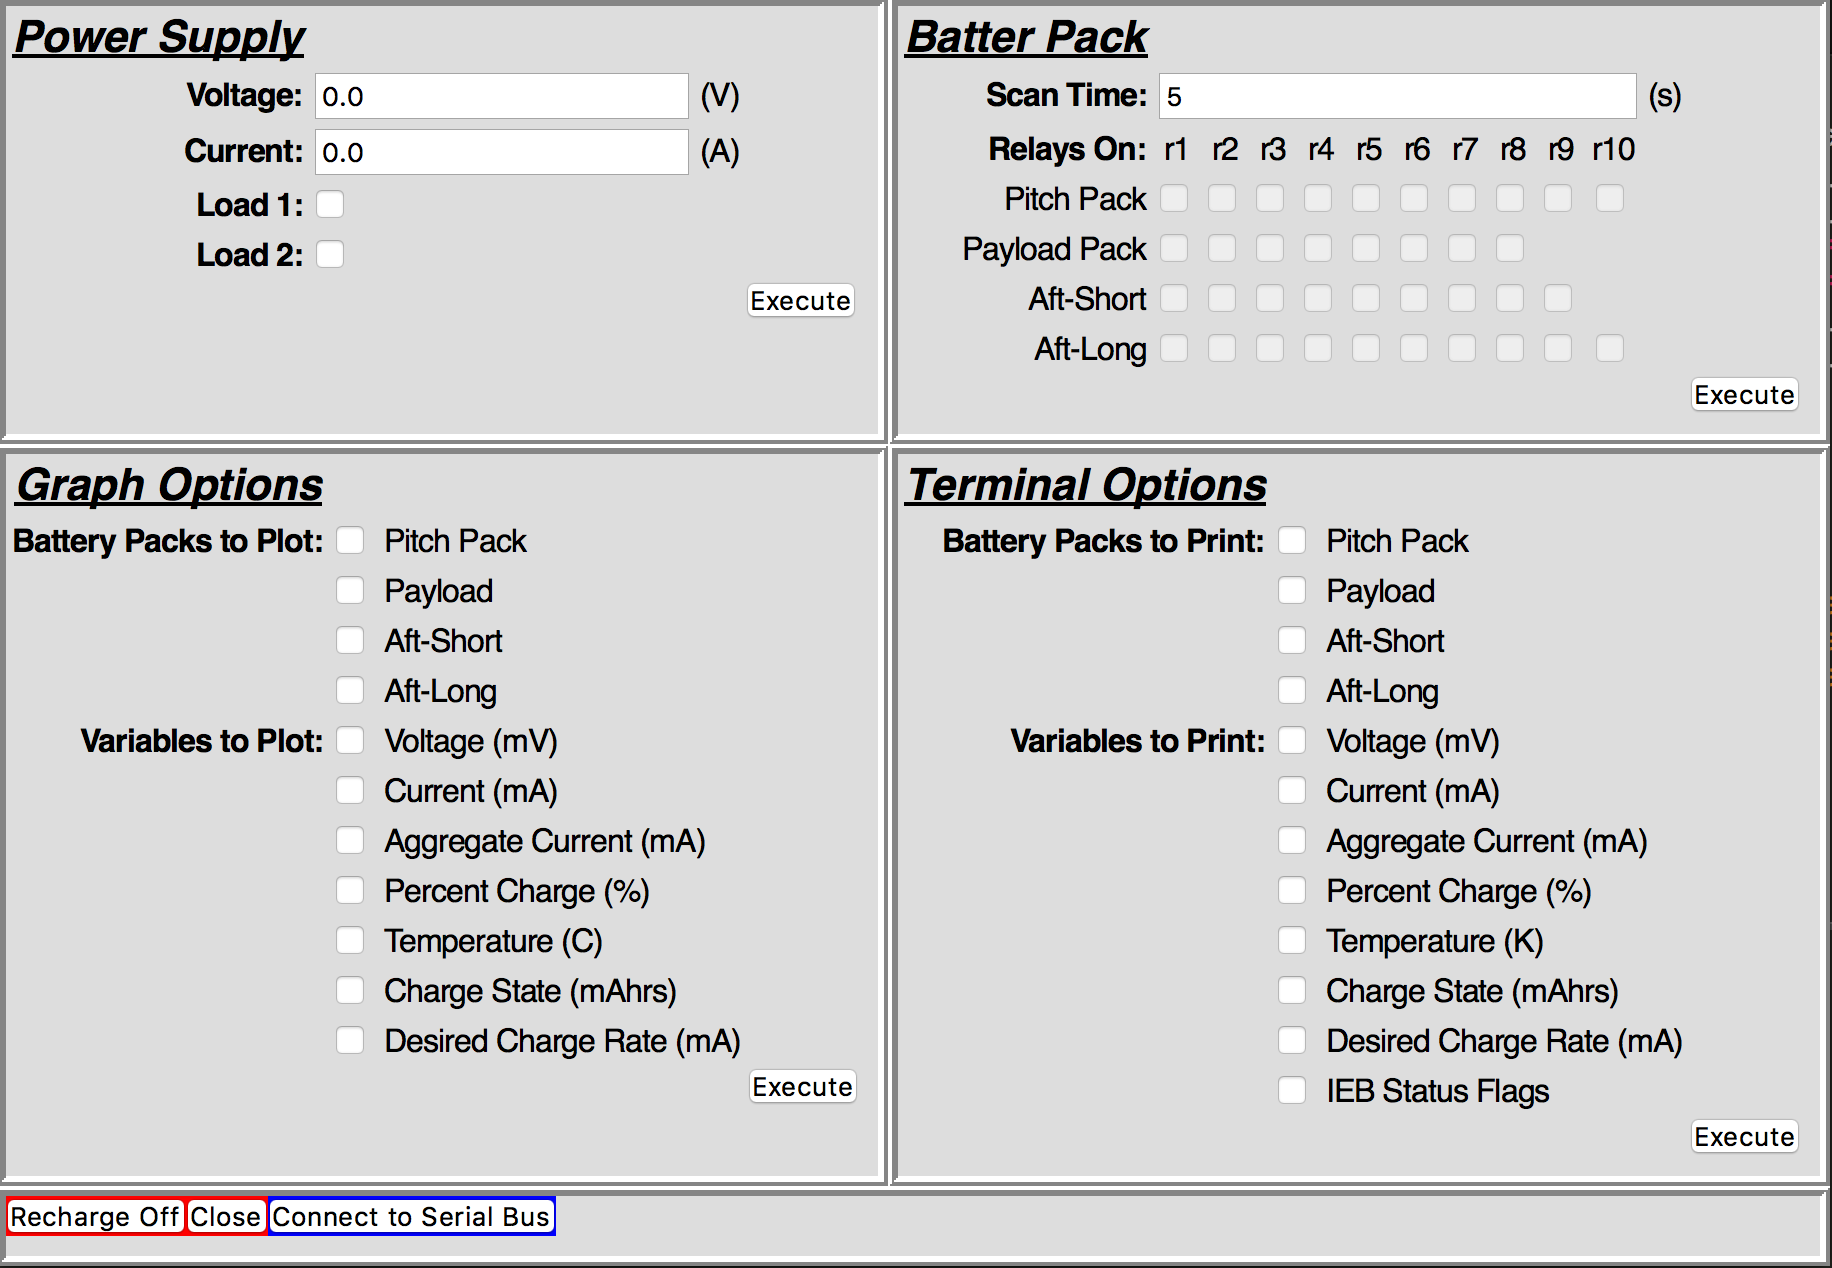
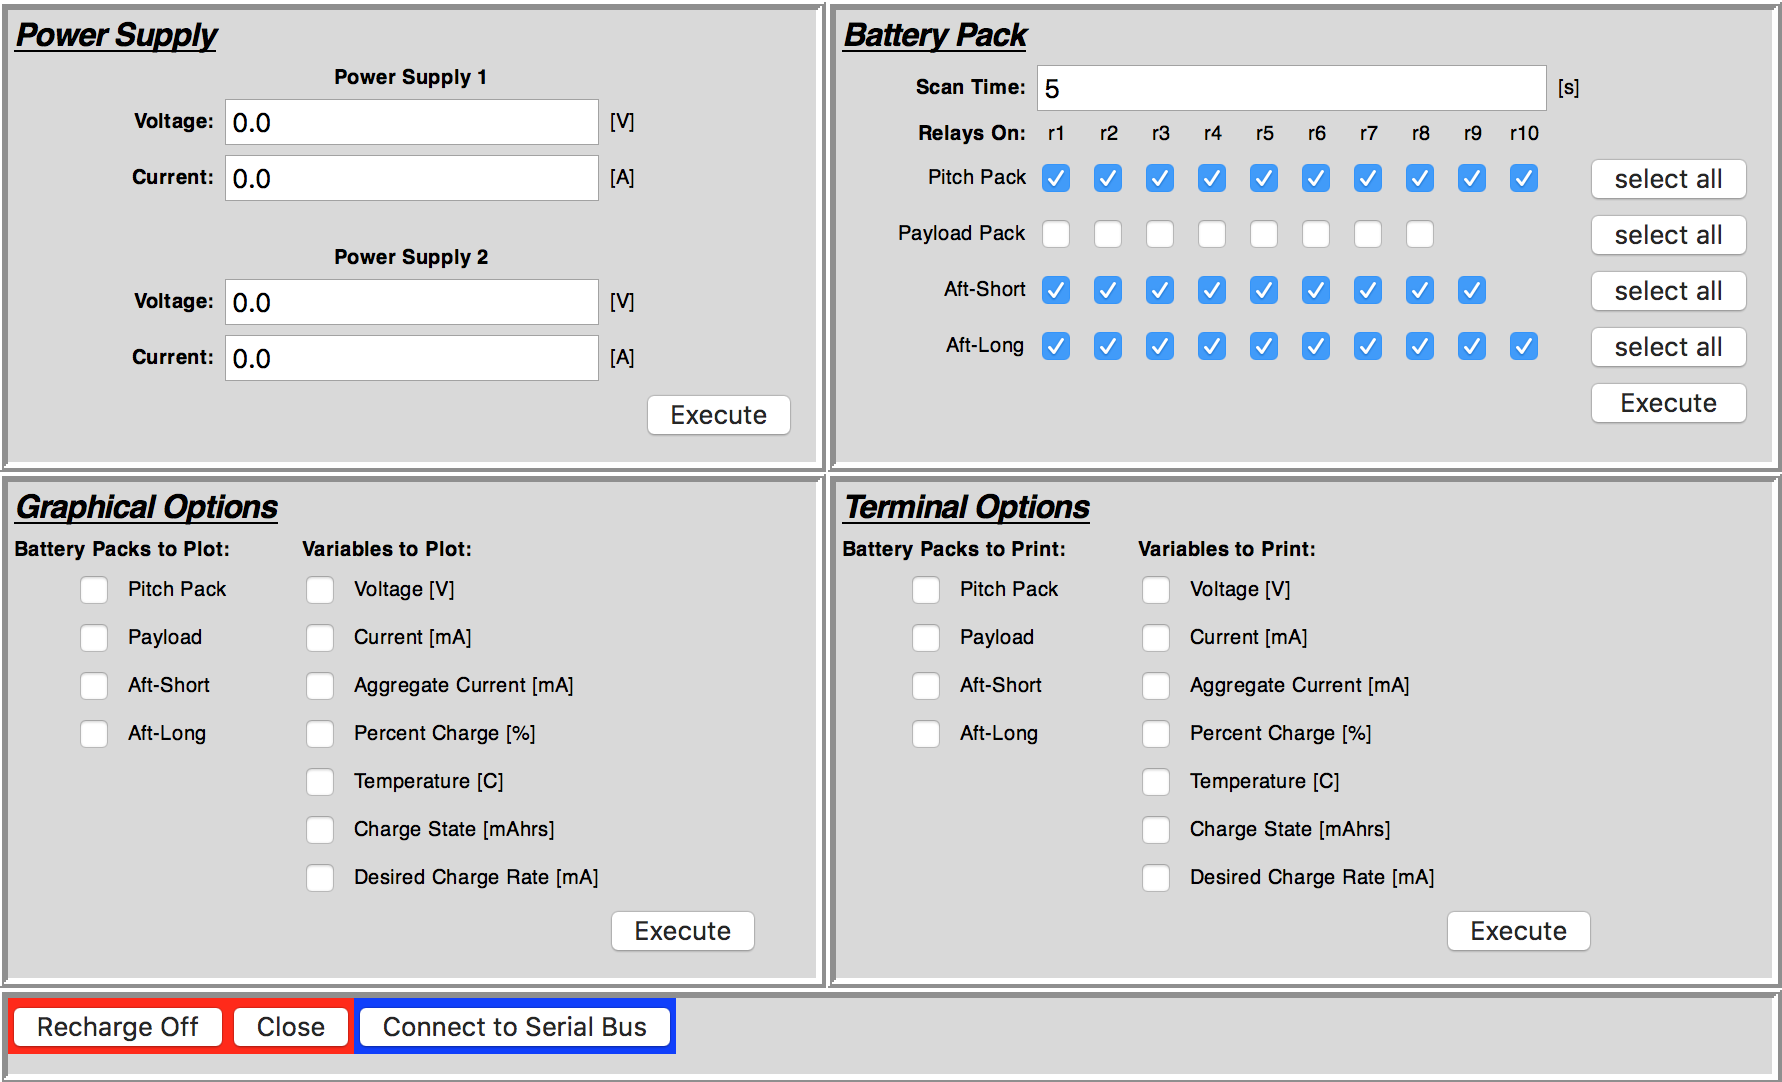
updated readme documentation

Changed region(s): [[0.0, 0.0, 1.0, 1.0]]

diff --git a/README.md b/README.md
@@ -5,7 +5,7 @@
 
 # Slocum Glider Battery System  
 
-The Slocum Glider is an autonomous underwater vehicle (AUV) that is specialized for long range research scenarios. In order to maximize the achievable range of the glider, it is essential to maximize the total power capacity contained within the vehicle. To do this, the old battery system that consisted of non-rechargeable Alkaline C cells has been replaced with a new system consisting of rechargeable Lithium Ion cells. The new Lithium Ion batteries are lighter and more powerful compared to their Alkaline counterparts. In order to monitor battery performance, I created a graphical user interface (GUI) that interacts with the battery packs via the SAIL interface and displays their various state variables. The GUI is contained within the ```battery_gui.py``` script. Next, in order to model the achievable range of the glider, I created a model that graphically displays the achievable range of the glider given the total glider capacity, the hotel load scenarios, and the ocean current conditions. The model is contained in the ```glider_range.py``` script. Together, the Battery System GUI and the Glider Range Model help to integrate the new Lithium Ion battery pack system into the Slocum Glider. 
+The Slocum Glider is an autonomous underwater vehicle (AUV) that is specialized for long range research scenarios. In order to maximize the achievable range of the glider, it is essential to maximize the total power capacity contained within the vehicle. To do this, the old battery system that consisted of non-rechargeable Alkaline C cells has been replaced with a new system consisting of rechargeable Lithium Ion cells. The new Lithium Ion batteries are lighter and more powerful compared to their Alkaline counterparts. In order to monitor battery performance, I created a graphical user interface (GUI) that interacts with the battery packs via the SAIL interface and displays their various state variables. The GUI is contained within the ```battery_gui.py``` script. Next, in order to model the achievable range of the glider, I created a model that graphically displays the range of the glider given the total power capacity, the hotel load scenario, and the ocean current conditions. The range model is contained in the ```glider_range.py``` script. Together, the Battery System GUI and the Glider Range Model help to integrate the new Lithium Ion battery pack system into the Slocum Glider architecture. 
 
 
 
@@ -44,7 +44,7 @@ The Battery GUI can be operated from any computer given that the appropriate dep
 
 <img src="images/glider_diagram.png" alt="glider_diagram" align="center" width="900">
 
-There are four distinct battery packs on the glider: the pitch pack, the payload pack, the aft-short pack, and the aft-long pack. Communication with the battery packs occurs via a SAIL bus, which uses the SAIL interface. Using the SAIL interface, the pitch pack is addressed using ```#bat4```, the payload pack is addressed using ```#bat1```, the aft-short pack is addressed using ```#bat3```, and the aft-long pack is addressed using ```#bat2```. In our test configuration, the power supply is addressed using ```#ada```. These addresses are utilized in the ```battery_gui.py``` script in order to communicate with the desired battery pack or power supply. The full test configuration can be seen in the diagram below. 
+There are four distinct battery packs on the glider: the pitch pack, the payload pack, the aft-short pack, and the aft-long pack. Communication with the battery packs occurs via a SAIL bus, which uses the SAIL interface. Using the SAIL interface, the pitch pack is addressed using ```#bat4```, the payload pack is addressed using ```#bat1```, the aft-short pack is addressed using ```#bat3```, and the aft-long pack is addressed using ```#bat2```. In our test configuration, the power supply is addressed using ```#ada```. These addresses are utilized in the ```battery_gui.py``` script in order to communicate with the battery packs and power supply. The full test configuration can be seen in the diagram below. 
 
 <img src="images/block_diagram.jpg" alt="block_diagram" align="center" width="900">
 
@@ -92,17 +92,17 @@ There are four distinct battery packs on the glider: the pitch pack, the payload
 
 #### ```battery_gui.py ```
 
-The Battery System GUI allows for interaction between your computer and the battery pack system of the Slocum Glider via the SAIL interface. The following image displays the default GUI window when the ```battery_gui.py``` script is executed: 
+The Battery System GUI allows for interaction between your computer and the Slocum Glider battery pack system, as well as the power supply system, both via the SAIL interface. The following image displays the default GUI window when the ```battery_gui.py``` script is executed: 
 
 <img src="images/GUI_example.png" alt="GUI_example" align="center" width="900">
 
-Each frame within the main GUI window provides distinct options for the user. Once the user selects their desired input within each frame, they must then select the Execute button within the same frame in order for the command to be sent to the SAIL bus. Below the four main frames, the user has access to three buttons. The Recharge Off button will immediately set the Power Supply current and voltage to zero while disengaging both loads, the Close button will terminate the GUI window, and the Connect to Serial Bus button will establish a connection with the serial port provided that their is a serial port available. 
+Each frame within the main GUI window provides distinct options for the user. Once the user selects their desired input within each frame, they must then select the Execute button within the same frame in order for the command to be sent to the SAIL bus. Below the four main frames, the user has access to three buttons. The Recharge Off button will immediately turn off all power being supplied to the glider, the Close button will terminate the GUI window, and the Connect to Serial Bus button will establish a connection with the serial port provided that their is an active serial port available. 
 
-* In the Power Supply frame, the user may command a desired current and voltage for the Power Supply, as well as specify the desired load(s). This allows the user to specify the charge and discharge situations of the battery packs, respectively. In my case, Load 1 and Load 2 are each ~7.5 Ohm resistors connected in parallel 
+* In the Power Supply frame, the user may command a desired current and voltage for the two different power supplies. This allows the user to specify their desired charge conditions
 
 * In the Battery Pack frame, the user may command a desired scan time for the batteries. The scan time refers to how often the batteries check and report their own battery state. The Battery Pack frame also allows the user to adjust the relays of specific batteries within each battery pack
 
-* In the Graph Options frame, the user may command a set of battery packs and a set of battery state variables to plot graphically. The x-axis of all plots are in units of UTC time using the ```datetime.datetime.utcnow()``` function 
+* In the Graph Options frame, the user may command a set of battery packs and a set of battery state variables to plot graphically. The x-axis of all plots are in units of UTC time using the ```datetime.datetime.utcnow()``` function
 
 * In the Terminal Options frame, the user may command a set of battery packs and a set of battery state variables to print directly to a terminal window
 
@@ -116,7 +116,7 @@ The GUI has been designed to account for several common fault modes. The followi
 
 * The user cannot click the Graph Options or Terminal Options Execute buttons without first selecting at least one battery pack and at least one state variable within the respective frame
 
-* If the user turns on one or two loads, the voltage and current values of the power supply will be set to zero. This is to prevent charge and discharge behavior to occur at the same time 
+* If the user updates the relay configuration of the batteries, the power supply will be turned off first. This is done to promote longevity of the batteries
 
 
 
@@ -124,11 +124,11 @@ The GUI has been designed to account for several common fault modes. The followi
 
 #### ```glider_range.py```
 
-The Glider Range Model calculates the achievable range of the Slocum Glider given the total glider capacity, the hotel load scenarios, and the ocean current conditions. Currently, the total battery capacity is set to the theoretical maximum value of 3200 Whrs, as determined by our choice of Lithium Ion battery. In this context, 'hotel load' refers to all non-propulsive power systems on the glider. Currently, the model contains two distinct hotel load scenarios: a low power transit mode and a high power survey mode. The ocean currents are crudely modeled as a constant vector field. Although this is a crude modeling technique, it provides us with meaningful baseline range estimates. 1.78 m/s is the NOAA-reported average speed of the Gulf Stream. 
+The Glider Range Model calculates the achievable range of the Slocum Glider given the total glider capacity, the hotel load scenarios, and the ocean current conditions. Currently, the total battery capacity is set to the theoretical maximum value of 3200 Whrs, as determined by our choice of Lithium Ion battery. In this context, 'hotel load' refers to all non-propulsive power systems on the glider. Currently, the model contains two distinct hotel load scenarios: a low power transit mode and a high power survey mode. The ocean currents are modeled as a constant vector field. Although this is a crude modeling technique, it provides us with meaningful baseline range estimates. 1.78 m/s is the NOAA-reported average speed of the Gulf Stream. 
 
-In order to calculate the achievable range, the model utilizes the power-speed relation that stems directly from the hydrodynamic drag equations and sea trial glider efficiency data. Effectively, using the total glider capacity, this allows us to plot the vehicle speed vs. the achievable range of the glider, and thus determine the optimum glider velocity. One of the major findings during the creation of this model is that the optimum glider velocity not only depends on hotel load scenario, but the optimum glider velocity also depends on the ocean current conditions. 
+In order to calculate the achievable range, the model utilizes the power-speed relation that stems directly from the hydrodynamic drag equations and sea trial glider efficiency data. Effectively, using the total glider capacity, this allows us to plot the vehicle speed vs. the achievable range of the glider, and thus determine the optimum glider velocity. One of the major findings during the development of this model is that the optimum glider velocity not only depends on hotel load scenario, but the optimum glider velocity also depends on the ocean current conditions. 
 
-The user has the ability to toggle on and off the following plots by adding their plot name to the ``` model.plot_set``` object: 
+The user has the ability to toggle on and off the following plots by adding their plot name to the ```model.plot_set``` object: 
 
 * ```"speed-range"```
 
@@ -174,8 +174,7 @@ The user has the ability to toggle on and off the following plots by adding thei
 
 
 ## Author
-
-* **Zach Duguid** - [zacharysupertramp](https://github.com/zduguid)
+* **[Zach Duguid](https://github.com/zduguid)**
 
 ## Acknowledgements
 * Woods Hole Oceanographic Institution (WHOI)
